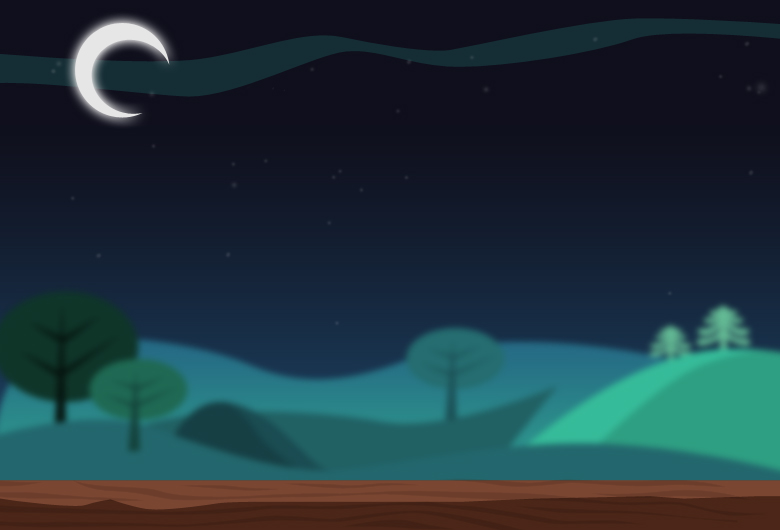
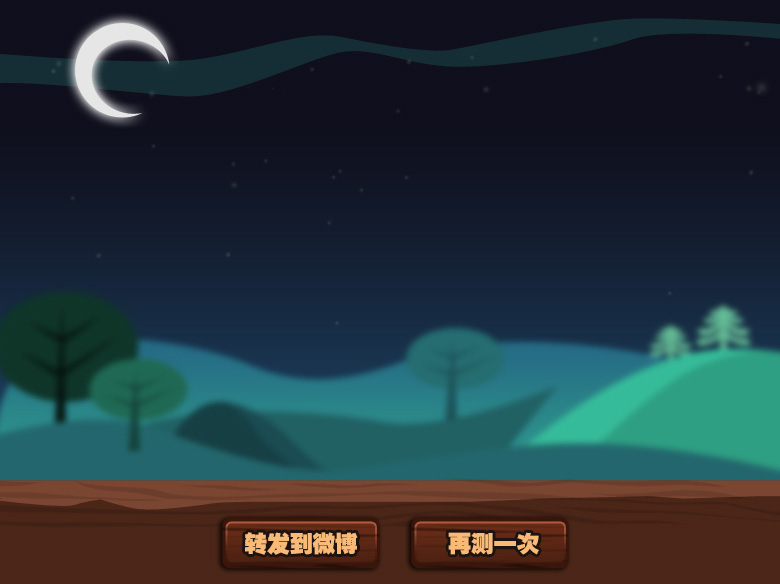
aaa

diff --git a/WebForApps/WebResources/Images/LoveRose/css/common.css b/WebForApps/WebResources/Images/LoveRose/css/common.css
@@ -7,13 +7,21 @@ ul,ol,p,h1,h2,h3,form,dd,dl,dt{margin:0;padding:0;list-style:none}
 
 img{border:0;}
 
+.clear{clear:both}
+
 .level-1,.level-2,.level-3{display:none}
 
 .hongxing,.zhezhi{display:none}
 
 .hua div{display:none}
 
-.f-box{background:url(../img/bg.jpg);width:780px;height:530px; margin:auto; position:relative}
+.f-box{
+	background:url(../img/bg.jpg);
+	width:780px;
+	height:584px;
+	margin:auto;
+	position:relative
+}
 
 .paopao,.mifeng,.chongzi,.huapen,.bingdong,.hongxing,.hua,.zhezhi,.cu,.liehen{position:absolute}
 
@@ -111,10 +119,75 @@ img{border:0;}
 
 .tip-box h1{ font-size:18px; color:#059301}
 
+/*星座*/
+.x-box{width:960px; margin:auto; background:#ece2bd}
 
+.x-top{ background:url(../img/top.gif);height:65px}
 
+.x-left{width:750px;float:left; overflow:hidden;background:#eecdbe}
 
+.x-right{width:196px;float:right; padding:11px 0px 0px 14px}
 
+.flash{width:750px;height:584px; overflow:hidden}
 
+.yuansu{height:353px; padding-top:30px}
 
+.yuansu-t{ background:url(../img/l_bg.gif);width:685px;height:40px; margin:auto}
 
+.yuansu-c{width:685px; margin:20px auto 0px auto}
+
+.yuansu-c li{width:342px;float:left;height:52px; margin-top:8px;font:14px/22px "微软雅黑";color:#3c2519}
+
+.yuansu-c li span{width:53px;height:52px; display:block;float:left; margin-right:11px; background:url(../img/ico.png) no-repeat}
+
+.yuansu-c li a{display:block; text-decoration:underline;color:#ff2400}
+
+.x-right-t{ background:url(../img/r_t.gif);width:170px;height:22px;font:bold 14px/22px "微软雅黑";color:#fff; padding-left:11px}
+
+.x-right-c{font:13px/18px "微软雅黑";color:#3c2519; padding:10px 13px 10px 13px}
+
+.per{padding:5px 0px; font-size:14px}
+
+.per div{width:128px;height:14px; border-style:solid; border-width:1px; margin-top:6px}
+
+.per div span{display:block;height:14px;background:url(../img/r_bg.gif) repeat-x}
+
+.per div.c1{ border-color:#91ae66}
+
+.per div.c2{ border-color:#ac7ab0}
+
+.per div.c3{ border-color:#498fbe}
+
+.per div.c4{ border-color:#bb7489}
+
+.per div.c5{ border-color:#c09963}
+
+.per div.c1 span{ background-position:0px 0px }
+
+.per div.c2 span{ background-position:0px -20px }
+
+.per div.c3 span{ background-position:0px -40px }
+
+.per div.c4 span{ background-position:0px -60px }
+
+.per div.c5 span{ background-position:0px -80px }
+
+.x-right-c ul li{height:30px; background:url(../img/love.gif) no-repeat 0px 7px; padding-left:17px}
+
+.x-right-c ul li a{color:#3c2519}
+
+.shouting{width:158px;height:282px; border:solid 1px; border-left-color:#d9c4a4; border-top-color:#d9c4a4;border-right-color:#f7f3e3;border-bottom-color:#f7f3e3; padding:15px}
+
+.shouting-t{ font-family:"微软雅黑"; font-size:14px}
+
+.shouting-c li{width:67px;height:119px; text-align:center;float:left; padding-top:10px}
+
+.shouting-c li img{width:54px;height:59px; display:block; margin:auto; border:solid 3px #fff}
+
+.shouting-c li span{display:block; font:14px/28px "微软雅黑";color:#7e6d58}
+
+.shouting-c li a{display:block;width:67px;height:26px;color:#fff;font:12px/26px "微软雅黑";color:#fff; background:#5aa793; text-decoration:none}
+
+.f-a-box{position:absolute;left:225px;top:517px}
+
+.f-a{width:158px;height:51px;float:left; margin-right:30px; text-indent:-999px; overflow:hidden}

diff --git a/WebForApps/WebResources/Images/LoveRose/css/login.css b/WebForApps/WebResources/Images/LoveRose/css/login.css
@@ -19,6 +19,12 @@ img{border:0;}
 
 .login-list{ margin-left:266px}
 
+.login-list li .select{ line-height:26px;float:left; margin-right:24px; font-size:13px;color:#000; font-family:"微软雅黑"; cursor:pointer; margin-top:3px}
+
+
+
+.select-a{width:50px;height:33px;float:left; margin-right:20px; display:block}
+
 .login-list li div.select{ background:#85c4c8; border:2px solid #fff;border-radius:5px; line-height:26px;float:left; padding:0px 5px; margin-right:20px; font-size:13px;color:#000; font-family:"微软雅黑"; cursor:pointer;position:relative}
 
 .login-list li div.select img{ margin-left:6px}
@@ -28,5 +34,3 @@ img{border:0;}
 .login-list li div.select .sub-nav a{color:#000; display:block;padding-left:5px; text-decoration:none}
 
 .login-list li div.select .sub-nav a:hover{ background:#fff}
-
-.select-a{width:50px;height:33px;float:left; margin-right:20px; display:block}

diff --git a/WebForApps/WebResources/Images/LoveRose/js/default.js b/WebForApps/WebResources/Images/LoveRose/js/default.js
@@ -1,6 +1,9 @@
 // JavaScript Document
 //png ie6兼容
 $(function(){
+	if($(".shouting-c").length!==0)
+	{$(".shouting-c li:odd").css("margin-left","20px")}
+	
 $(document).pngFix();
 })
 

diff --git a/WebForApps/LoveRose/IndexForQQ.aspx.designer.cs b/WebForApps/LoveRose/IndexForQQ.aspx.designer.cs
@@ -211,6 +211,33 @@ namespace WebForApps.LoveRose {
         protected global::System.Web.UI.WebControls.View View2;
         
         /// <summary>
+        /// LinkButton2 控件。
+        /// </summary>
+        /// <remarks>
+        /// 自动生成的字段。
+        /// 若要进行修改，请将字段声明从设计器文件移到代码隐藏文件。
+        /// </remarks>
+        protected global::System.Web.UI.WebControls.LinkButton LinkButton2;
+        
+        /// <summary>
+        /// LinkButton3 控件。
+        /// </summary>
+        /// <remarks>
+        /// 自动生成的字段。
+        /// 若要进行修改，请将字段声明从设计器文件移到代码隐藏文件。
+        /// </remarks>
+        protected global::System.Web.UI.WebControls.LinkButton LinkButton3;
+        
+        /// <summary>
+        /// ltrInfo 控件。
+        /// </summary>
+        /// <remarks>
+        /// 自动生成的字段。
+        /// 若要进行修改，请将字段声明从设计器文件移到代码隐藏文件。
+        /// </remarks>
+        protected global::System.Web.UI.WebControls.Literal ltrInfo;
+        
+        /// <summary>
         /// Label1 控件。
         /// </summary>
         /// <remarks>

diff --git a/WebForApps/LoveRose/IndexForQQ.aspx.cs b/WebForApps/LoveRose/IndexForQQ.aspx.cs
@@ -304,6 +304,20 @@ namespace WebForApps.LoveRose
             m_record.TS = DateTime.Now;
             LoveRoseBll.GetInstance().Add(m_record);
             #endregion
+
+            #region 显示信息
+            ltrInfo.Text = m_astro.birth.ToString("yyyy年MM月dd日 HH:mm") + @"
+                    <br />
+                    所属时区： " + (m_astro.zone > 0 ? "西" + m_astro.zone.ToString() : "东" + m_astro.zone.ToString()) + @"区<br />
+                    夏令时：" + (((int)m_astro.IsDaylight) == 1 ? "是" : "否") + @"
+                    <br />
+                    性别： "+ AppEnum.GetGender(m_astro.Gender)+@"
+                    <br />
+                    出生地： " + m_astro.position.name + @"
+                    <br />
+                    (经度" + m_astro.position.Lng + @"&nbsp;纬度" + m_astro.position.Lat + @")
+                    <br />";
+            #endregion
         }
 
         //protected void Button1_Click(object sender, EventArgs e)
